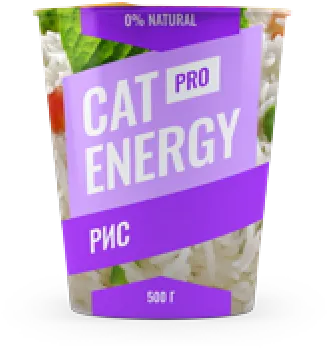
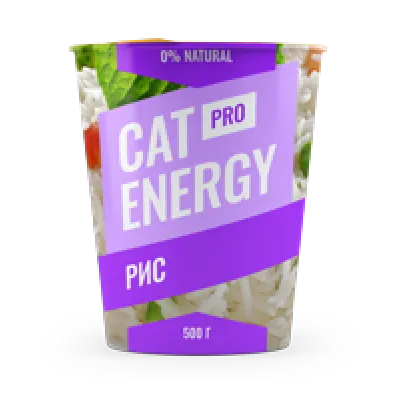
изменяет изображения

diff --git a/source/catalog.html b/source/catalog.html
@@ -40,9 +40,9 @@
           <li class="catalog__product-card">
             <a class="catalog__product-card-link" href="product.html">
               <picture>
-                <source width="161" height="172" type="image/png" media="min-width: 1140px" srcset="images\catalog-chicken-500-desktop@1x.png 1x, images\catalog-chicken-500-desktop@2x.png 2x">
-                <source width="161" height="172" type="image/png" media="min-width: 768px" srcset="images\catalog-chicken-500-tablet@1x.png 1x, images\catalog-chicken-500-tablet@2x.png 2x">
-                <img src="images\catalog-chicken-500-tablet@1x.png" srcset="images\catalog-chicken-500-mobile@2x.png" width="68" height="86" alt="Продукция Cat Energy">
+                <source width="169" height="210" type="image/png" media="min-width: 1140px" srcset="images\catalog-chicken-500-desktop@1x.png 1x, images\catalog-chicken-500-desktop@2x.png 2x">
+                <source width="200" height="210" type="image/png" media="min-width: 768px" srcset="images\catalog-chicken-500-tablet@1x.png 1x, images\catalog-chicken-500-tablet@2x.png 2x">
+                <img src="images\catalog-chicken-500-tablet@1x.png" srcset="images\catalog-chicken-500-mobile@2x.png" width="140" height="107" alt="Продукция Cat Energy">
               </picture>
               <h3 class="catalog__product-card-title">Cat Energy PRO 500 г</h3>
             </a>
@@ -65,9 +65,9 @@
           <li class="catalog__product-card">
             <a class="catalog__product-card-link" href="product.html">
               <picture>
-                <source width="161" height="172" type="image/png" media="min-width: 1140px" srcset="images\catalog-chicken-1000-desktop@1x.png 1x, images\catalog-chicken-1000-desktop@2x.png 2x">
-                <source width="161" height="172" type="image/png" media="min-width: 768px" srcset="images\catalog-chicken-1000-tablet@1x.png 1x, images\catalog-chicken-1000-tablet@2x.png 2x">
-                <img src="images\catalog-chicken-1000-tablet@1x.png" srcset="images\catalog-chicken-1000-mobile@2x.png" width="68" height="86" alt="Продукция Cat Energy">
+                <source width="169" height="210" type="image/png" media="min-width: 1140px" srcset="images\catalog-chicken-1000-desktop@1x.png 1x, images\catalog-chicken-1000-desktop@2x.png 2x">
+                <source width="200" height="210" type="image/png" media="min-width: 768px" srcset="images\catalog-chicken-1000-tablet@1x.png 1x, images\catalog-chicken-1000-tablet@2x.png 2x">
+                <img src="images\catalog-chicken-1000-tablet@1x.png" srcset="images\catalog-chicken-1000-mobile@2x.png" width="140" height="107" alt="Продукция Cat Energy">
               </picture>
               <h3 class="catalog__product-card-title">Cat Energy PRO 1000 г</h3>
             </a>
@@ -88,9 +88,9 @@
           <li class="catalog__product-card">
             <a class="catalog__product-card-link" href="product.html">
               <picture>
-                <source width="161" height="172" type="image/png" media="min-width: 1140px" srcset="images\catalog-fish-500-desktop@1x.png 1x, images\catalog-fish-500-desktop@2x.png 2x">
-                <source width="161" height="172" type="image/png" media="min-width: 768px" srcset="images\catalog-fish-500-tablet@1x.png 1x, images\catalog-fish-500-tablet@2x.png 2x">
-                <img src="images\catalog-fish-500-tablet@1x.png" srcset="images\catalog-fish-500-mobile@2x.png" width="68" height="86" alt="Продукция Cat Energy">
+                <source width="169" height="210" type="image/png" media="min-width: 1140px" srcset="images\catalog-fish-500-desktop@1x.png 1x, images\catalog-fish-500-desktop@2x.png 2x">
+                <source width="200" height="210" type="image/png" media="min-width: 768px" srcset="images\catalog-fish-500-tablet@1x.png 1x, images\catalog-fish-500-tablet@2x.png 2x">
+                <img src="images\catalog-fish-500-tablet@1x.png" srcset="images\catalog-fish-500-mobile@2x.png" width="140" height="107" alt="Продукция Cat Energy">
               </picture>
               <h3 class="catalog__product-card-title">Cat Energy PRO 500 г</h3>
             </a>
@@ -113,9 +113,9 @@
           <li class="catalog__product-card">
             <a class="catalog__product-card-link" href="product.html">
               <picture>
-                <source width="161" height="172" type="image/png" media="min-width: 1140px" srcset="images\catalog-fish-1000-desktop@1x.png 1x, images\catalog-fish-1000-desktop@2x.png 2x">
-                <source width="161" height="172" type="image/png" media="min-width: 768px" srcset="images\catalog-fish-1000-tablet@1x.png 1x, images\catalog-fish-1000-tablet@2x.png 2x">
-                <img src="images\catalog-fish-1000-tablet@1x.png" srcset="images\catalog-fish-1000-mobile@2x.png" width="68" height="86" alt="Продукция Cat Energy">
+                <source width="169" height="210" type="image/png" media="min-width: 1140px" srcset="images\catalog-fish-1000-desktop@1x.png 1x, images\catalog-fish-1000-desktop@2x.png 2x">
+                <source width="200" height="210" type="image/png" media="min-width: 768px" srcset="images\catalog-fish-1000-tablet@1x.png 1x, images\catalog-fish-1000-tablet@2x.png 2x">
+                <img src="images\catalog-fish-1000-tablet@1x.png" srcset="images\catalog-fish-1000-mobile@2x.png" width="140" height="107" alt="Продукция Cat Energy">
               </picture>
               <h3 class="catalog__product-card-title">Cat Energy PRO 1000 г</h3>
             </a>
@@ -138,9 +138,9 @@
           <li class="catalog__product-card">
             <a class="catalog__product-card-link" href="product.html">
               <picture>
-                <source width="161" height="172" type="image/png" media="min-width: 1140px" srcset="images\catalog-buckwheat-500-desktop@1x.png 1x, images\catalog-buckwheat-500-desktop@2x.png 2x">
-                <source width="161" height="172" type="image/png" media="min-width: 768px" srcset="images\catalog-buckwheat-500-tablet@1x.png 1x, images\catalog-buckwheat-500-tablet@2x.png 2x">
-                <img src="images\catalog-buckwheat-500-tablet@1x.png" srcset="images\catalog-buckwheat-500-mobile@2x.png" width="68" height="86" alt="Продукция Cat Energy">
+                <source width="169" height="210" type="image/png" media="min-width: 1140px" srcset="images\catalog-buckwheat-500-desktop@1x.png 1x, images\catalog-buckwheat-500-desktop@2x.png 2x">
+                <source width="200" height="210" type="image/png" media="min-width: 768px" srcset="images\catalog-buckwheat-500-tablet@1x.png 1x, images\catalog-buckwheat-500-tablet@2x.png 2x">
+                <img src="images\catalog-buckwheat-500-tablet@1x.png" srcset="images\catalog-buckwheat-500-mobile@2x.png" width="140" height="107" alt="Продукция Cat Energy">
               </picture>
               <h3 class="catalog__product-card-title">Cat Energy SLIM 500 г</h3>
             </a>
@@ -163,9 +163,9 @@
           <li class="catalog__product-card">
             <a class="catalog__product-card-link" href="product.html">
               <picture>
-                <source width="161" height="172" type="image/png" media="min-width: 1140px" srcset="images\catalog-buckwheat-1000-desktop@1x.png 1x, images\catalog-buckwheat-1000-desktop@2x.png 2x">
-                <source width="161" height="172" type="image/png" media="min-width: 768px" srcset="images\catalog-buckwheat-1000-tablet@1x.png 1x, images\catalog-buckwheat-1000-tablet@2x.png 2x">
-                <img src="images\catalog-buckwheat-1000-tablet@1x.png" srcset="images\catalog-buckwheat-1000-mobile@2x.png" width="68" height="86" alt="Продукция Cat Energy">
+                <source width="169" height="210" type="image/png" media="min-width: 1140px" srcset="images\catalog-buckwheat-1000-desktop@1x.png 1x, images\catalog-buckwheat-1000-desktop@2x.png 2x">
+                <source width="200" height="210" type="image/png" media="min-width: 768px" srcset="images\catalog-buckwheat-1000-tablet@1x.png 1x, images\catalog-buckwheat-1000-tablet@2x.png 2x">
+                <img src="images\catalog-buckwheat-1000-tablet@1x.png" srcset="images\catalog-buckwheat-1000-mobile@2x.png" width="140" height="107" alt="Продукция Cat Energy">
               </picture>
               <h3 class="catalog__product-card-title">Cat Energy SLIM 1000 г</h3>
             </a>
@@ -188,9 +188,9 @@
           <li class="catalog__product-card">
             <a class="catalog__product-card-link" href="product.html">
               <picture>
-                <source width="161" height="172" type="image/png" media="min-width: 1140px" srcset="images\catalog-rice-500-desktop@1x.png 1x, images\catalog-rice-500-desktop@2x.png 2x">
-                <source width="161" height="172" type="image/png" media="min-width: 768px" srcset="images\catalog-rice-500-tablet@1x.png 1x, images\catalog-rice-500-tablet@2x.png 2x">
-                <img src="images\catalog-rice-500-tablet@1x.png" srcset="images\catalog-rice-500-mobile@2x.png" width="68" height="86" alt="Продукция Cat Energy">
+                <source width="169" height="210" type="image/png" media="min-width: 1140px" srcset="images\catalog-rice-500-desktop@1x.png 1x, images\catalog-rice-500-desktop@2x.png 2x">
+                <source width="200" height="210" type="image/png" media="min-width: 768px" srcset="images\catalog-rice-500-tablet@1x.png 1x, images\catalog-rice-500-tablet@2x.png 2x">
+                <img src="images\catalog-rice-500-tablet@1x.png" srcset="images\catalog-rice-500-mobile@2x.png" width="140" height="107" alt="Продукция Cat Energy">
               </picture>
               <h3 class="catalog__product-card-title">Cat Energy PRO 500 г</h3>
             </a>
